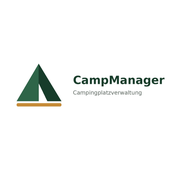
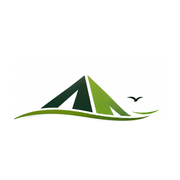
Add files via upload

Changed region(s): [[0.0833, 0.3611, 0.9167, 0.6944]]

diff --git a/index.html b/index.html
@@ -12,7 +12,7 @@
 <meta name="apple-mobile-web-app-title" content="CampManager">
 <link rel="manifest" href="manifest.webmanifest">
 <link rel="apple-touch-icon" href="apple-touch-icon.png">
-<title>CampManager v35</title>
+<title>CampManager v36</title>
 <style>
 :root{
  --bg:#f5f2ea;--card:#fff;--ink:#142019;--muted:#6d766e;--line:#ddd7ca;
@@ -162,7 +162,7 @@ body.report-open{overflow:hidden}
 <header class="top">
  <div class="toprow">
   <button class="brand" id="homeBtn" type="button">
-   <img class="logo" id="logoImg" src="logo.jpg" alt="Logo">
+   <img class="logo" id="logoImg" src="icon-512.png" alt="CampManager App-Logo">
    <div class="brandcopy"><b>CampManager <span class="ver">v34</span></b><small class="copyright">© Marcel Hentschel</small></div>
   </button>
   <div class="topright">
@@ -214,9 +214,9 @@ body.report-open{overflow:hidden}
 <script>
 (()=>{'use strict';
 
-const APP_VERSION=35;
-const KEY='campmanager_complete_v35';
-const OLD=['campmanager_complete_v34','campmanager_complete_v33','campmanager_complete_v32','campmanager_complete_v31','campmanager_complete_v30','campmanager_complete_v29','campmanager_complete_v28','campmanager_complete_v27','campmanager_complete_v26','campmanager_complete_v25','campmanager_complete_v24','campmanager_complete_v23','campmanager_complete_v22','campmanager_complete_v21','campmanager_complete_v20','campmanager_complete_v19','campmanager_complete_v18','campmanager_complete_v17','campmanager_complete_v16','campmanager_complete_v15','campmanager_complete_v14','campmanager_complete_v13','campmanager_complete_v12','campmanager_complete_v11','campmanager_complete_v10','campmanager_complete_v9','campmanager_complete_v8','campmanager_complete_v7','campmanager_complete_v6','campmanager_full_v5','campmanager_full_v4','campmanager_full_v3','campmanager_full_v2','campmanager_full_v1'];
+const APP_VERSION=36;
+const KEY='campmanager_complete_v36';
+const OLD=['campmanager_complete_v35','campmanager_complete_v34','campmanager_complete_v33','campmanager_complete_v32','campmanager_complete_v31','campmanager_complete_v30','campmanager_complete_v29','campmanager_complete_v28','campmanager_complete_v27','campmanager_complete_v26','campmanager_complete_v25','campmanager_complete_v24','campmanager_complete_v23','campmanager_complete_v22','campmanager_complete_v21','campmanager_complete_v20','campmanager_complete_v19','campmanager_complete_v18','campmanager_complete_v17','campmanager_complete_v16','campmanager_complete_v15','campmanager_complete_v14','campmanager_complete_v13','campmanager_complete_v12','campmanager_complete_v11','campmanager_complete_v10','campmanager_complete_v9','campmanager_complete_v8','campmanager_complete_v7','campmanager_complete_v6','campmanager_full_v5','campmanager_full_v4','campmanager_full_v3','campmanager_full_v2','campmanager_full_v1'];
 const CFG='campmanager_cloud_cfg_v16', SES='campmanager_cloud_session_v16', BACKUP_DAY='campmanager_backup_day_v23', MONTH_BACKUP='campmanager_month_backup_v23', MONTH_SNOOZE='campmanager_month_backup_snooze_v23';
 const WEATHER_CACHE='campmanager_weather_hoerstel_v1', WEATHER_MAX_AGE=30*60*1000;
 const WEATHER_URL='https://api.open-meteo.com/v1/forecast?latitude=52.2976&longitude=7.5838&current=temperature_2m,weather_code,wind_speed_10m&daily=weather_code,temperature_2m_max,temperature_2m_min,precipitation_probability_max&timezone=Europe%2FBerlin&forecast_days=3';
@@ -239,7 +239,7 @@ function blankPlace(name='Campingplatz',pitch='161'){
 }
 function defaults(){
  const p=blankPlace('Campingplatz','161');
- return {version:35,updatedAt:new Date().toISOString(),activePlaceId:p.id,family:[{id:uid(),name:'Marcel',birthDate:''},{id:uid(),name:'Denise',birthDate:''},{id:uid(),name:'Leon',birthDate:''},{id:uid(),name:'Luca',birthDate:''}],places:[p]}
+ return {version:36,updatedAt:new Date().toISOString(),activePlaceId:p.id,family:[{id:uid(),name:'Marcel',birthDate:''},{id:uid(),name:'Denise',birthDate:''},{id:uid(),name:'Leon',birthDate:''},{id:uid(),name:'Luca',birthDate:''}],places:[p]}
 }
 function normFamily(list,fallback=[]){
  const src=Array.isArray(list)?list:fallback;
@@ -273,10 +273,10 @@ function normalize(raw){
  const d=defaults(); if(!raw||typeof raw!=='object')return d;
  if(Array.isArray(raw.places)&&raw.places.length){
   const places=raw.places.map(normPlace);
-  return {version:35,updatedAt:raw.updatedAt||new Date().toISOString(),activePlaceId:places.some(p=>p.id===raw.activePlaceId)?raw.activePlaceId:places[0].id,family:normFamily(raw.family,d.family),places}
+  return {version:36,updatedAt:raw.updatedAt||new Date().toISOString(),activePlaceId:places.some(p=>p.id===raw.activePlaceId)?raw.activePlaceId:places[0].id,family:normFamily(raw.family,d.family),places}
  }
  const p=normPlace(raw);
- return {version:35,updatedAt:raw.updatedAt||new Date().toISOString(),activePlaceId:p.id,family:normFamily(raw.family,d.family),places:[p]}
+ return {version:36,updatedAt:raw.updatedAt||new Date().toISOString(),activePlaceId:p.id,family:normFamily(raw.family,d.family),places:[p]}
 }
 function load(){
  try{

diff --git a/sw.js b/sw.js
@@ -1,10 +1,11 @@
-const VERSION = 'v35';
+const VERSION = 'v36';
 const CACHE = `campmanager-${VERSION}`;
 const CORE = [
   './',
   './index.html',
   './manifest.webmanifest',
   './version.json',
+  './logo.jpg',
   './logo-fallback.jpg',
   './icon-192.png',
   './icon-512.png',
